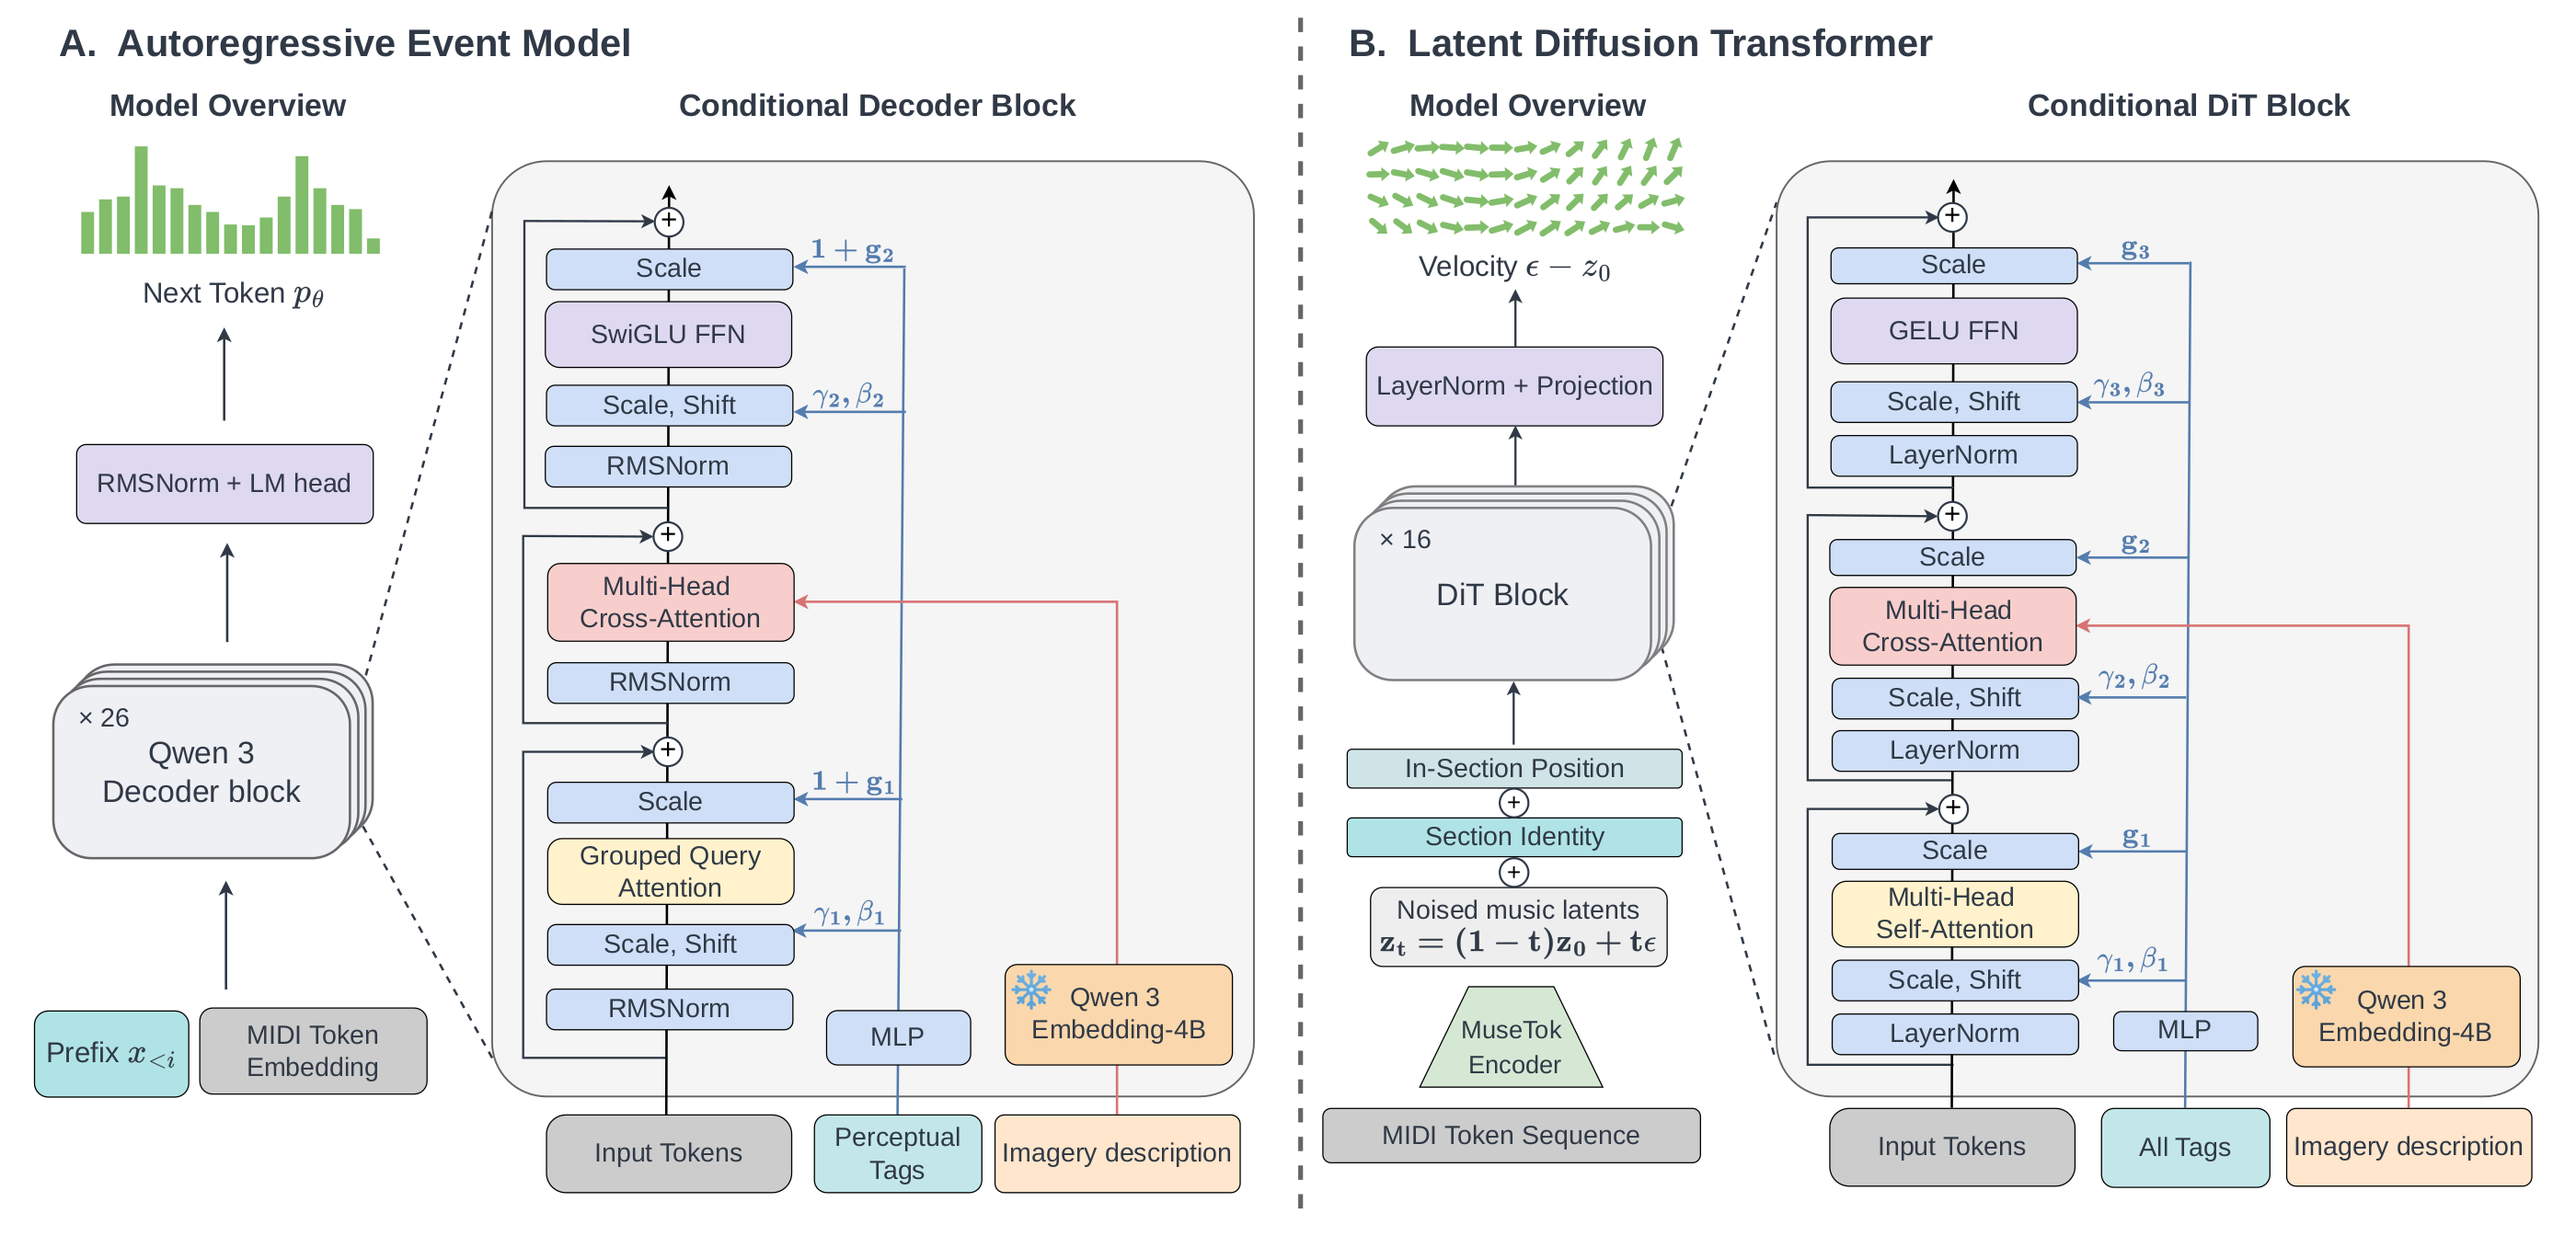
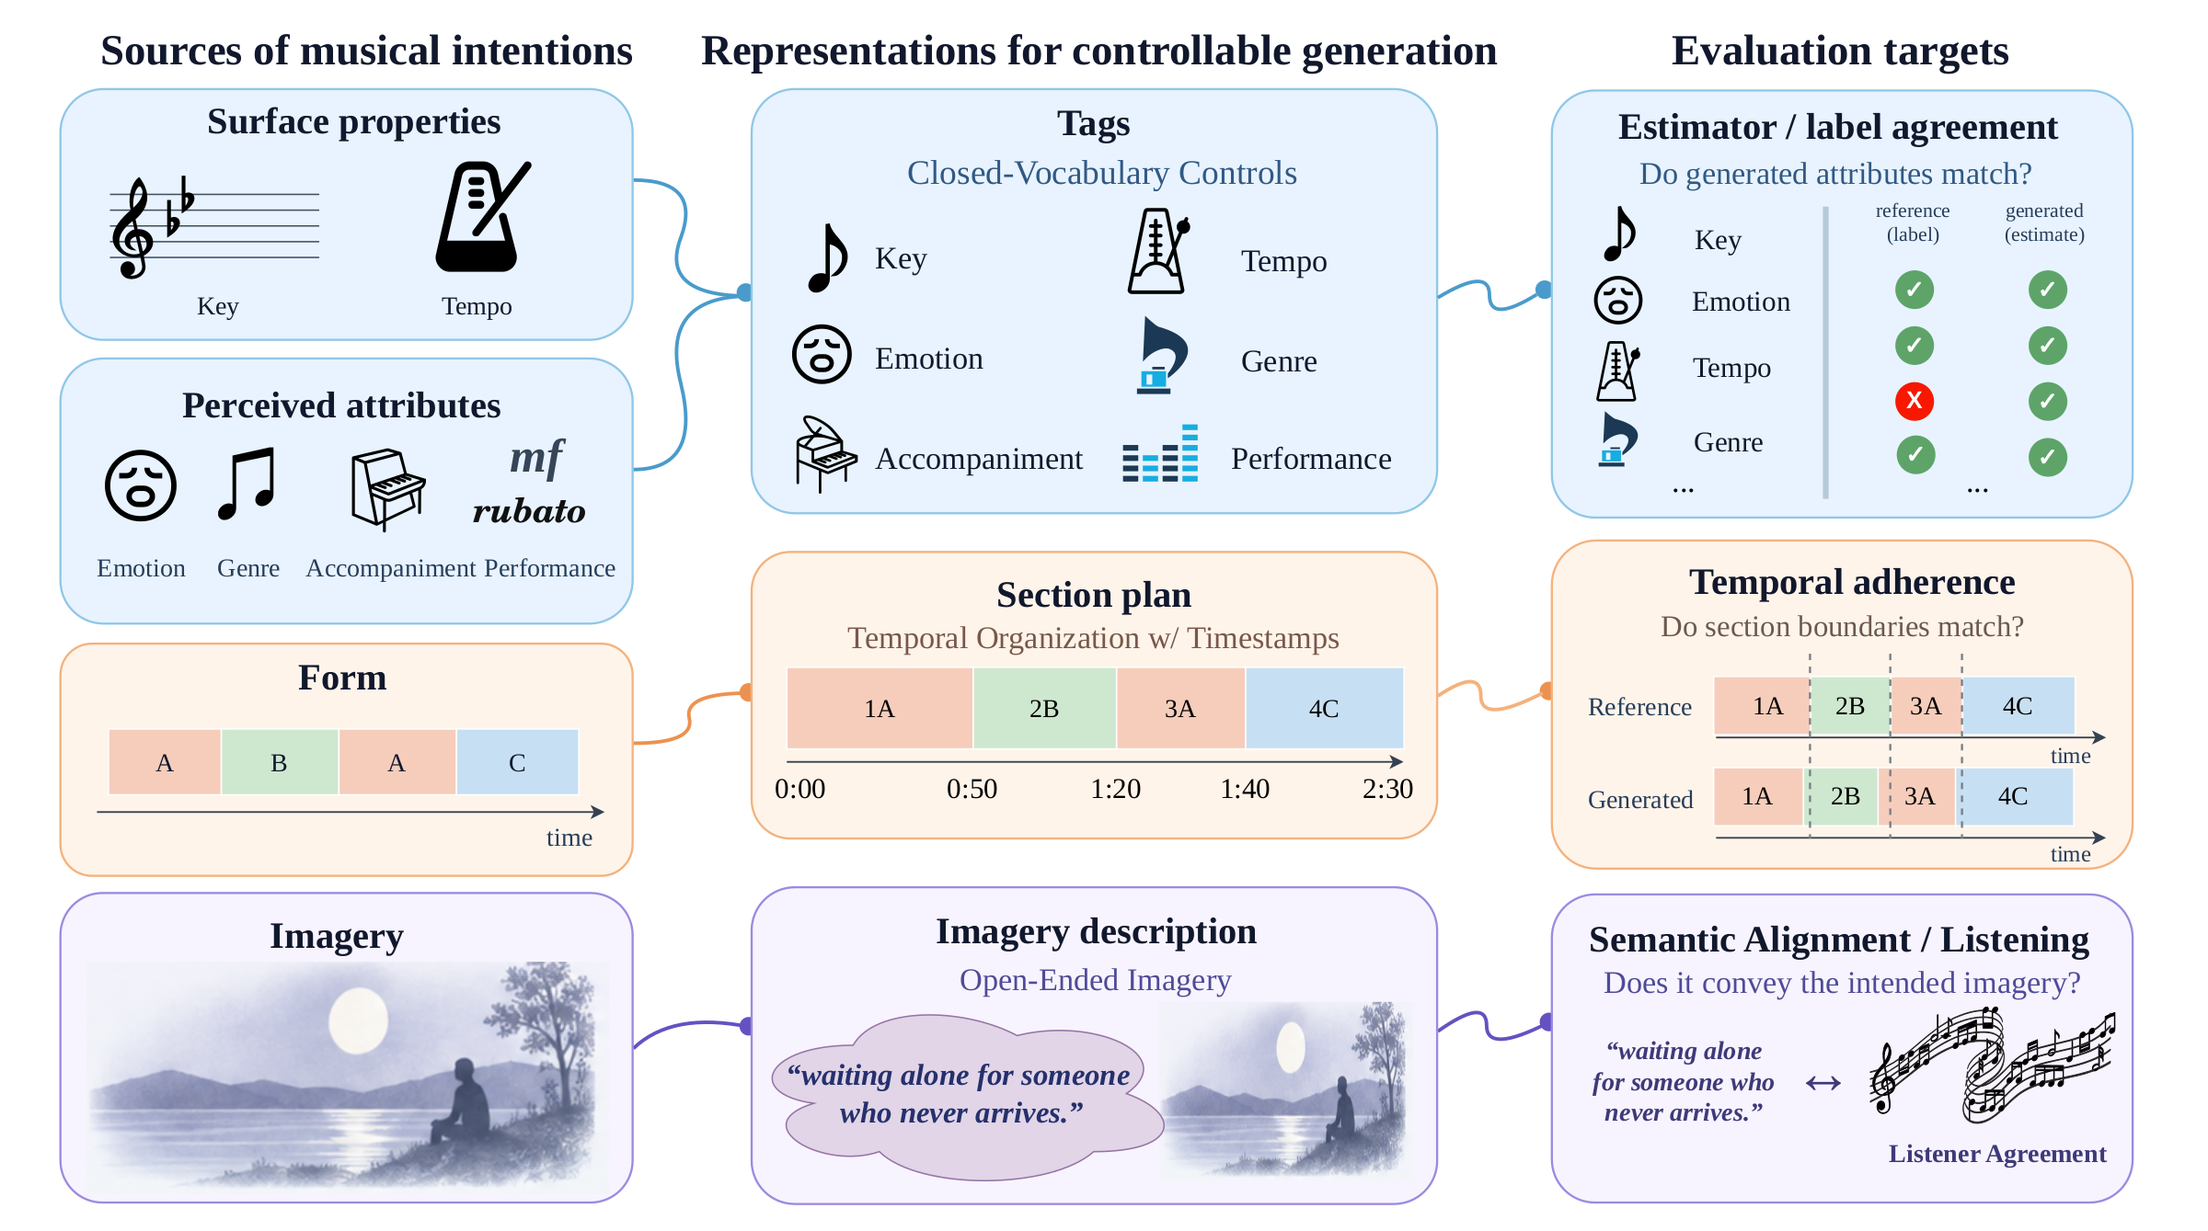
change figure

diff --git a/_pages/publication.md b/_pages/publication.md
@@ -9,7 +9,7 @@ author_profile: true
 
   <article class="publication-card">
     <div class="publication-visual publication-visual--contain publication-visual--architecture">
-      <img src="/images/publications/taste.png" alt="TASTE autoregressive and diffusion model architectures for text-conditioned symbolic piano generation">
+      <img src="/images/publications/taste.png" alt="TASTE taxonomy of musical intention, textual controls, and evaluation targets">
     </div>
     <div class="publication-body">
       <span class="venue">Preprint · 2026</span>
